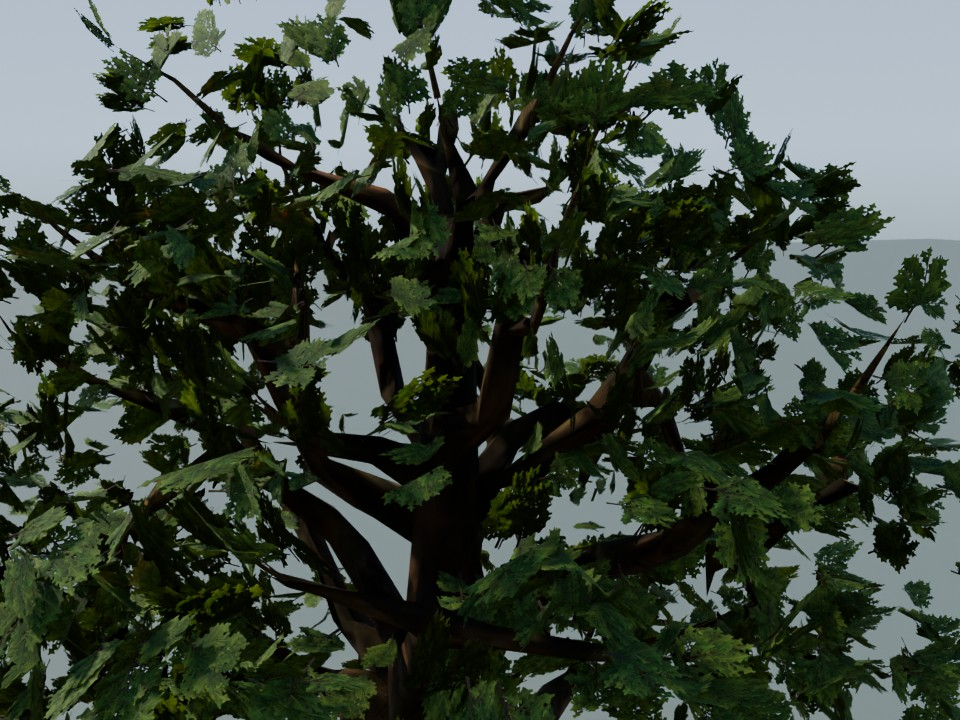
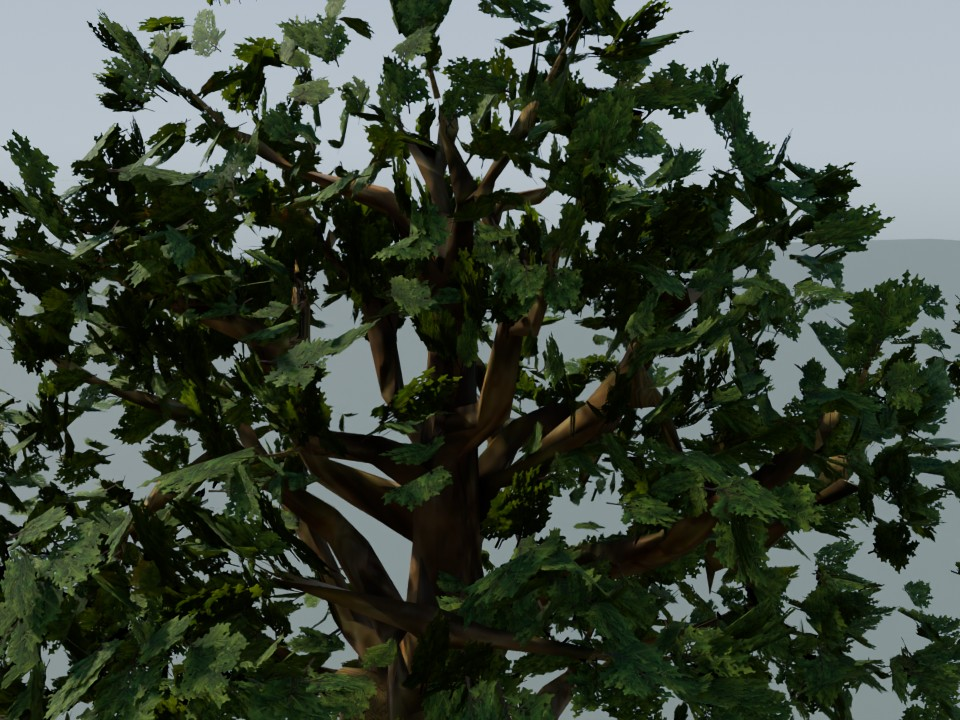
Repair ancient tree wood and roots
The R6 revision addresses the remaining ancient-tree gate failure:
bark albedo now persists as warm textured wood, bare terminals continue
into twig and leaf growth, and the surface roots are rounded volumes
rather than exposed triangular plates.

Generated with [Devin](https://devin.ai)

diff --git a/assets/vegetation/tree_ancient_a/build.py b/assets/vegetation/tree_ancient_a/build.py
@@ -46,16 +46,22 @@ CARD_CONFIG = dict(width_scale=.56, length_scale=.64, cup=.11, twist_deg=46, arc
                    tilt=True, tilt_threshold=.38, tilt_min_deg=21, tilt_max_deg=41,
                    upward_bias=.68, radial_sway=0.0, scale_jitter=.16, seed=GEOMETRY_SEED,
                    scatter_deg=32, scatter_offset=.13)
-BARK_TAPER_CONFIG = dict(max_faces=48, min_faces=32, taper_start=.70, end_radius=.022,
-                         length_scale=.68, bend=.085, seed=GEOMETRY_SEED)
+# Runde 6: deutlich staerkere Verkuerzung (.42 statt .68), frueher einsetzende
+# Verjuengung und mehr Biegung, damit die nackten Speerspitzen als kurze beblaetterte
+# Zweigenden in die Krone eingegliedert werden statt als schwarze Stacheln herauszuragen.
+BARK_TAPER_CONFIG = dict(max_faces=48, min_faces=32, taper_start=.60, end_radius=.022,
+                         length_scale=.42, bend=.12, seed=GEOMETRY_SEED)
 FILL_CONFIG = dict(attach_high=False, fraction=1.0, second_fraction=1.0, third_fraction=.85,
                    width_range=(.66, .92), length_range=(.70, .95),
                    yaw_deg=56, pitch_deg=42, roll_deg=30,
                    normal_offset=.160, tangent_offset=.27,
                    inward_fraction=.34, inward_pull=.60, z_jitter=.26, seed=GEOMETRY_SEED)
+# Runde 6: nahezu runder Querschnitt (oval .92), schmaeler aber deutlich dicker,
+# frueheres und tieferes Abtauchen — die Wurzeln bleiben im sichtbaren Bereich dicke
+# runde Schlaengelwurzeln und verschwinden unter der Erde, bevor sie spitz werden.
 ROOT_CONFIG = dict(count=10, trunk_radius=.68, base_z=.55,
-                   length_range=(1.05, 1.88), radius_range=(.20, .31),
-                   bury_range=(.080, .180), sides=8, rings=7, oval=.52)
+                   length_range=(1.05, 1.88), radius_range=(.15, .22),
+                   bury_range=(.12, .24), sides=10, rings=9, oval=.94)
 BRANCH_COLLARS = (
     dict(angle_deg=15, z=2.35, length=1.25, radius=.33, up=.28, surface_radius=.68),
     dict(angle_deg=120, z=2.55, length=1.30, radius=.34, up=.24, surface_radius=.68),
@@ -1153,17 +1159,51 @@ def _append_surface_roots(bm, centre, *, count, trunk_radius, base_z, length_ran
         p2 = centre + radial * (trunk_radius + length * .48) + tangent * bend + Vector((0, 0, .008 + .022 * h3))
         p3 = centre + radial * (trunk_radius + length) + tangent * bend2 + Vector((0, 0, -bury))
         pts = [_bezier_point(p0, p1, p2, p3, j / max(rings - 1, 1)) for j in range(rings)]
-        ground_t = .64 + .13 * h1
+        # Runde 6c: die wurzel LAUFT AUF dem boden statt in ihm.  der erste wurf liess
+        # die mittellinie flach durch z=0 gleiten — nur eine schmale kalotte lugte ueber
+        # die erde und las als flacher dreiecks-spiess (probe: sichtbare spitzen waren
+        # roehren-scheitel, nicht die template-finnen).  jetzt: mittellinie steigt vom
+        # stamm auf ruhehoehe (radius*.55 — mehr als die haelfte der roehre liegt frei),
+        # laeuft fast eben als runde schlaengelwurzel und STUERZT erst im letzten
+        # viertel steil unter die erde, wobei sie auch dort noch dick ist.
+        descend_t = .40
+        # eintauchen auf mehr ringe verteilt (frueher beginnend), damit der bogen unter
+        # die erde weich rund statt als abgeknicktes bretter-ende liest (draft6)
+        plunge_t = .62 + .06 * h4
+        # radien zuerst — die ruhehoehe haengt vom lokalen radius ab
+        radii = []
+        for j in range(rings):
+            t = j / max(rings - 1, 1)
+            if t < plunge_t:
+                q = t / max(plunge_t, 1e-6)
+                taper = 1.0 - .26 * q
+            else:
+                q = (t - plunge_t) / max(1.0 - plunge_t, 1e-6)
+                taper = .74 * ((1.0 - q) ** .62) + .08
+            rr = .018 + (root_radius - .018) * taper
+            rr *= 1.0 + .10 * math.sin(j * 2.13 + h2 * 5.1) + .05 * math.sin(j * 3.7 + h4 * 3.0)
+            radii.append(max(rr, .012))
         for j, pt in enumerate(pts):
             t = j / max(rings - 1, 1)
-            if t < ground_t:
-                q = t / ground_t
-                pt.z = start_z * ((1.0 - q) ** 1.32)
+            # ruhehoehe bei 85% des radius: die roehre liegt fast voll auf dem boden
+            # auf (nur die flache unterseite versinkt) — bei 55% zeigte sich nur eine
+            # flache kalotte und die wurzel las als brettesque platte (draft5)
+            z_rest = radii[j] * .85 + .012
+            if t < descend_t:
+                q = t / descend_t
+                pt.z = z_rest + (start_z - z_rest) * ((1.0 - q) ** 1.35)
+                # wellen des freiliegenden wurzelkoerpers, am stamm ausklingend
+                pt.z += math.sin(q * math.pi * (1.35 + .55 * h3) + h5 * 4.2) * .030 * math.sin(math.pi * q)
+            elif t < plunge_t:
+                q = (t - descend_t) / max(plunge_t - descend_t, 1e-6)
+                # fast ebenes, leicht welliges aufliegen auf der erde
+                pt.z = z_rest * (1.0 - .25 * q)
+                pt.z += math.sin(t * math.pi * (2.1 + .7 * h3) + h5 * 4.2) * .022 * math.sin(math.pi * q)
             else:
-                q = (t - ground_t) / max(1.0 - ground_t, 1e-6)
-                pt.z = -bury * (q ** .72)
-        radii = [.018 + (root_radius - .018) * ((1.0 - j / max(rings - 1, 1)) ** .78)
-                 for j in range(rings)]
+                q = (t - plunge_t) / max(1.0 - plunge_t, 1e-6)
+                # steiler einsturz: am ende ist die mittellinie tiefer als -radius,
+                # die roehre ist komplett verschwunden, bevor sie duenn wird
+                pt.z = z_rest * .75 - (bury + root_radius * 1.1) * (q ** .72)
         made.extend(_append_curved_tube(bm, pts, radii, sides=sides, seed=seed + 600 + ri * 19,
                                         material_index=0, oval=(1.0, oval), irregular=.065))
     return {"roots": count, "faces": len(made)}
@@ -1207,7 +1247,10 @@ def _smooth_lower_trunk_flare(mesh, *, trunk_radius, seed=0):
     ids=sorted({v for p in mesh.polygons if p.material_index==0 for v in p.vertices})
     for vi in ids:
         co=mesh.vertices[vi].co
-        if not (.025<co.z<1.18): continue
+        # Runde 6: auch die bodennahen finnenkanten (z bis -.02) und etwas hoeher (1.35)
+        # erfassen — in R5 blieben die unteren plattenkanten unveraendert als dreieckige
+        # flossen stehen, weil verts unter z=.025 komplett ausgenommen waren.
+        if not (-.02<co.z<1.35): continue
         dx,dy=co.x-centre.x,co.y-centre.y; r=math.hypot(dx,dy)
         if r<.10: continue
         t=co.z/1.18
@@ -1215,7 +1258,10 @@ def _smooth_lower_trunk_flare(mesh, *, trunk_radius, seed=0):
         a=math.atan2(dy,dx)
         target*=1.0+.030*math.sin(5*a+co.z*2.1+phase)+.018*math.sin(9*a-co.z*3.0)
         if r>target:
-            newr=target+(r-target)*.24
+            # staerkeres einziehen (10% statt 24% restweite): die dreieckigen template-
+            # finnen werden zu vertikalen wurzelrippen am stamm statt flacher platten;
+            # die horizontale wurzelstruktur uebernehmen die separaten rundwurzeln.
+            newr=target+(r-target)*.10
         elif r<target*.76:
             newr=r+(target*.76-r)*.34
         else:
@@ -1224,6 +1270,61 @@ def _smooth_lower_trunk_flare(mesh, *, trunk_radius, seed=0):
         co.x=centre.x+dx*scale; co.y=centre.y+dy*scale; changed+=1
     if changed: mesh.update()
     return {"vertices":changed}
+
+
+def _dive_flare_teeth(mesh, *, trunk_radius, seed=0):
+    """Sink the outer skirt of the collapsed template flare progressively underground.
+
+    The triangular template teeth are vertical webs at the trunk that flatten into
+    horizontal plates exactly where they meet the soil.  Sliding their lower outer
+    vertices below grade turns them into buttress ridges that dive into the ground
+    instead of flat fins lying on it.  Runs before any procedural geometry is appended,
+    so every bark vertex here is original template scaffold; the dive is depth-limited
+    and can never reach the pinned z_min = -0.65 burial socket.
+    """
+    centre = _estimate_trunk_center(mesh)
+    dive_start = trunk_radius * 1.02
+    ids = sorted({v for p in mesh.polygons if p.material_index == 0 for v in p.vertices})
+    changed = 0
+    for vi in ids:
+        co = mesh.vertices[vi].co
+        # enger hoehenkorridor: unter z=.45 existieren nach dem flare-collapse nur
+        # finnen-/schuerzenreste (aeste laufen erst ab z~1+ aus dem stamm); ein erster
+        # wurf mit z<1.0 zog den grossen tiefen seitenast unter die erde (z_min-bruch).
+        if not (-.05 < co.z < .45):
+            continue
+        dx, dy = co.x - centre.x, co.y - centre.y
+        r = math.hypot(dx, dy)
+        # kein oberer radius-schluss mehr: die sichtbaren finnen-spitzen reichen bis
+        # r~1.4 und blieben durch die alte r<1.0-sperre komplett unbehandelt (woodshot
+        # d4).  der harte versenkungs-deckel unten macht den z_min-sockel trotzdem
+        # unerreichbar, und tief liegende schuerzenreste unterhalb z=-.05 sind ohnehin
+        # unsichtbar und duerfen mit eingezogen werden.
+        if r <= dive_start:
+            continue
+        # Runde 6b: die finnen sind flache dreiecks-platten — reines versenken liess
+        # ihre spitzen als scharfe holz-spiesse ueber dem boden (woodshot-base).  jetzt
+        # wird der radiale ueberstand zusaetzlich auf 38% eingezogen: die platte wird
+        # zum niedrigen runden knoechel direkt am stamm, waehrend das abtauchen die
+        # restspitze unter die erde zieht.  die eigentliche wurzelwirkung liegt auf den
+        # separaten rund-roehrenwurzeln.
+        excess = r - dive_start
+        zfade = max(0.0, 1.0 - co.z / .45)
+        # einzug wie versenkung zum fenster oberrand ausblenden — sonst entstuende bei
+        # z=.45 eine sichtbare knickkante um den stamm
+        shrink = 1.0 - .62 * zfade
+        newr = dive_start + excess * shrink
+        scale = newr / r
+        co.x = centre.x + dx * scale
+        co.y = centre.y + dy * scale
+        # staerkstes abtauchen an der bodennahen unterkante, auslaufend ab z=.45;
+        # hart gedeckelt, damit die versenkung niemals den eingegrabenen sockel erreicht
+        sink = min(excess * 1.5 * (.35 + .65 * zfade), .34)
+        co.z -= sink
+        changed += 1
+    if changed:
+        mesh.update()
+    return {"vertices": changed}
 
 
 def _leaf_atlas_rect(h, *, willow=False):
@@ -1323,9 +1424,19 @@ def _append_terminal_growth(bm, cap_data, shoot_data, *, seed=0, willow=False):
             made["leaf_cards"] += len(faces) // 4
 
     for si, data in enumerate(shoot_data or ()):
-        tip = data["base"] + data["axis"] * data["length"]
+        axis = data["axis"]
+        length = data["length"]
         h = _hash01(data["ci"], si, 443)
-        leaf_tuft(tip, data["axis"], seed + 700 + si, 1 + (1 if h > .42 else 0), scale=.88 + .20 * h)
+        tip = data["base"] + axis * length
+        # Runde 6: Laub entlang des ganzen verkuerzten Triebs statt nur an der Spitze —
+        # der einst nackte schwarze Speer liest sich als durchgehend beblaettertes
+        # Zweigende; die Karten werden nach innen kleiner und guenstiger.
+        leaf_tuft(tip, axis, seed + 700 + si, 2 + (1 if h > .55 else 0), scale=.95 + .18 * h)
+        if length > .30:
+            mid = data["base"] + axis * (length * (.56 + .10 * h))
+            leaf_tuft(mid, axis, seed + 720 + si, 1 + (1 if h > .42 else 0), scale=.68 + .14 * h)
+            inner = data["base"] + axis * (length * (.24 + .08 * h))
+            leaf_tuft(inner, axis, seed + 740 + si, 1, scale=.50 + .14 * h)
         made["terminal_shoots"] += 1
 
     for ci, data in enumerate(cap_data or ()):
@@ -1369,6 +1480,19 @@ def _append_terminal_growth(bm, cap_data, shoot_data, *, seed=0, willow=False):
             made["twigs"] += 1
             leaf_tuft(pts[-1], direction, seed + 1000 + ci * 17 + k, 2 if h2 > .30 else 1,
                       scale=.92 + .18 * h3)
+        # Runde 6: zusaetzliche blattpolster entlang des nackten endasts hinter der
+        # spitze — der lange dunkle speer des geruests liest sich so als beblaettertes
+        # zweigende. kleinere, guenstigere karten weiter innen; leicht seitlich versetzt,
+        # damit sie nicht exakt auf der astachse schwimmen.
+        shaft_len = max(.55, min(1.15, radius * 4.2))
+        for frac, sc, cnt in ((.30, .74, 2), (.62, .60, 1), (.88, .48, 1)):
+            h5 = _hash01(data["ci"], int(frac * 100), 471, seed)
+            h6 = _hash01(data["ci"], int(frac * 100), 479, seed)
+            back = tip - axis * (shaft_len * frac)
+            lateral_off = (e1 * (h5 - .5) + e2 * (h6 - .5)) * max(radius * 1.1, .06)
+            pos = back + lateral_off + zup * ((h5 - .35) * .05)
+            leaf_tuft(pos, axis, seed + 1100 + ci * 13 + int(frac * 100),
+                      cnt + (1 if h6 > .62 else 0), scale=sc + .10 * h5)
     return made
 
 
@@ -1807,6 +1931,56 @@ def _shrink_fern_crown(mesh, *, z0=.018, height_scale=.24, radial_pull=.68):
     return {"vertices": changed}
 
 
+def _gnarly_bark_relief(mesh, *, seed=0):
+    """Break the smooth-plastic cylinder read of the thick scaffold limbs with continuous
+    multi-frequency surface noise displaced along the smooth bark normals.
+
+    The displacement field is continuous in 3D space, so no seam can open and the UVs stay
+    valid.  Amplitude is scaled per connected-component class: thick scaffold limbs gain
+    visible gnarl, medium roots/collars get soft undulation, thin twigs only wobble so
+    their cross-sections are never crumpled.  Runs after all bark construction and before
+    the smooth-normal pass so the relief is shaded correctly.
+    """
+    comps = _material_components(mesh, 0)
+    acc = [Vector((0, 0, 0)) for _ in mesh.vertices]
+    for p in mesh.polygons:
+        if p.material_index != 0:
+            continue
+        n = p.normal * p.area
+        for v in p.vertices:
+            acc[v] += n
+    ph1 = _hash01(seed, 601) * 2.0 * math.pi
+    ph2 = _hash01(seed, 607) * 2.0 * math.pi
+    changed = 0
+    for comp in comps:
+        npolys = len(comp["polys"])
+        if npolys > 500:
+            amp_low, amp_mid = .030, .012
+        elif npolys >= 45:
+            amp_low, amp_mid = .016, .006
+        else:
+            amp_low, amp_mid = .007, .0
+        for vi in comp["verts"]:
+            co = mesh.vertices[vi].co
+            # z < -0.3 is the pinned burial socket: leave it untouched.
+            if co.z < -.30:
+                continue
+            n = acc[vi]
+            if n.length < 1e-6:
+                continue
+            n = n.normalized()
+            low = (math.sin(co.x * 5.1 + ph1) * math.sin(co.y * 4.63 + ph1 * 1.7)
+                   * math.sin(co.z * 5.37 + ph1 * 2.3))
+            mid = (math.sin(co.x * 15.3 + ph2 + co.z * 5.9) * math.sin(co.y * 14.1 + ph2 * 1.31 - co.z * 4.7)
+                   * math.sin(co.z * 16.7 + ph2 * 2.07))
+            d = amp_low * low + amp_mid * mid
+            mesh.vertices[vi].co = Vector((co.x + n.x * d, co.y + n.y * d, co.z + n.z * d))
+            changed += 1
+    if changed:
+        mesh.update()
+    return {"vertices": changed}
+
+
 def _smooth_bark_normals(mesh):
     """Use area-weighted smooth split normals on wood while leaving foliage loops untouched."""
     old = [x.vector.copy() for x in mesh.corner_normals]
@@ -1849,6 +2023,41 @@ def _lift_foliage_albedo(mat, *, gamma, floor):
         out = np.concatenate([rgb, px[..., 3:]], -1)
         img.pixels.foreach_set(out.astype(np.float32).ravel())
         lifted.append(img.name)
+    return lifted
+
+
+def _lift_bark_albedo(mat, *, boost, floor, suffix):
+    """Multiplicative linear-space bark lift plus a small additive floor.
+
+    A constant gain preserves every contrast ratio of the authored bark texture, so the
+    grain reads clearer rather than flatter — unlike another gamma pass, which compresses
+    exactly the shadow contrast the reviewer asked to keep.  The floor only keeps true
+    black crevices off zero in deep shade.
+
+    The result must be baked into a NEW packed image via vrmeshy._replace_image: editing
+    ``img.pixels`` of an already packed image in place never reaches the saved .blend,
+    because the file keeps the original packed PNG bytes.
+    """
+    lifted = []
+    made = {}
+    for node in _basecolor_texture_nodes(mat):
+        img = node.image
+        if img in made:
+            continue
+        px = vrmeshy._image_pixels(img)
+        # Runde 6: weiche saettigungskurve statt reinem linear-gain — der erste wurf
+        # (v*boost+floor, hart geclippt) trieb die hellen flechten-/lichtstellen der
+        # rinde in reines weiss, der stamm las bleich.  1-exp(-v) behaelt den gain in
+        # den schatten (kontrastverhaeltnisse annaehernd proportional), komprimiert
+        # aber lichter weich gegen weiss statt sie abzuschneiden.
+        v = px[..., :3] * boost + floor
+        rgb = 1.0 - np.exp(-v)
+        out = np.concatenate([rgb, px[..., 3:]], -1)
+        made[img] = vrmeshy._replace_image(img, out, suffix)
+        lifted.append(made[img].name)
+    for node in mat.node_tree.nodes:
+        if node.type == "TEX_IMAGE" and node.image in made:
+            node.image = made[node.image]
     return lifted
 
 
@@ -1895,11 +2104,13 @@ def _apply_asset_geometry(obj):
         willow_ragged = _raggedize_willow_cards(mesh, seed=GEOMETRY_SEED)
     tips = _taper_small_bark_tips(mesh, **BARK_TAPER_CONFIG)
     lower_flare = _smooth_lower_trunk_flare(mesh, trunk_radius=ROOT_CONFIG.get("trunk_radius", .5), seed=GEOMETRY_SEED)
+    teeth_dive = _dive_flare_teeth(mesh, trunk_radius=ROOT_CONFIG.get("trunk_radius", .5), seed=GEOMETRY_SEED)
     fluting = _flute_trunk_bark(mesh, trunk_radius=ROOT_CONFIG.get("trunk_radius", .5),
                                 height=3.4, seed=GEOMETRY_SEED)
     bark_geometry = _add_procedural_bark_geometry(
         mesh, seed=GEOMETRY_SEED, root=ROOT_CONFIG, collars=BRANCH_COLLARS,
         shoot_collars=SHOOT_COLLAR_CONFIG, tip_caps=TIP_CAP_CONFIG)
+    gnarl = _gnarly_bark_relief(mesh, seed=GEOMETRY_SEED)
     bark_normals = _smooth_bark_normals(mesh)
     normals = 0
     if ASSET_KIND == "tree":
@@ -1910,8 +2121,9 @@ def _apply_asset_geometry(obj):
     elif ASSET_KIND == "bush":
         normals = _recalc_foliage_normals(mesh, geom_weight=.66, up_weight=.50, radial_weight=.56)
     return {"cards": cards, "card_split": split, "cluster_fill": fill,
-            "willow_ragged": willow_ragged, "tapered_tips": tips, "lower_trunk_flare": lower_flare, "trunk_fluting": fluting,
-            "procedural_bark": bark_geometry, "bark_normals": bark_normals,
+            "willow_ragged": willow_ragged, "tapered_tips": tips, "lower_trunk_flare": lower_flare,
+            "flare_teeth_dive": teeth_dive, "trunk_fluting": fluting,
+            "procedural_bark": bark_geometry, "gnarl_relief": gnarl, "bark_normals": bark_normals,
             "foliage_normals": normals}
 
 
@@ -1981,7 +2193,9 @@ def _configure_materials(obj, template_info):
     lifted = _lift_foliage_albedo(foliage, gamma=FOLIAGE_GAMMA, floor=FOLIAGE_LIFT_FLOOR)
     if lifted:
         graded["foliage_lifted"] = lifted
-    bark_lifted = _lift_foliage_albedo(bark, gamma=.74, floor=.032)
+    # Runde 6: kontrasttreue multiplikative Aufhellung der Rinde statt Gamma — die
+    # Rindentextur bleibt im Schatten lesbar, ohne dass die Binnenkonstraste flach werden.
+    bark_lifted = _lift_bark_albedo(bark, boost=2.0, floor=.012, suffix="_vr_r6lift")
     if bark_lifted:
         graded["bark_lifted"] = bark_lifted
     _wire_foliage_translucency(foliage, FOLIAGE_TRANSLUCENCY)

diff --git a/docs/grafik/STATE.md b/docs/grafik/STATE.md
@@ -6,7 +6,7 @@ Diese Datei reicht, damit eine neue Session nahtlos weitermacht. Nach jedem Arbe
 
 - Zweig: `grafik/next-level` — aktueller Head siehe `git log`; zuletzt dokumentierte Kette: f7bb548 Gras-Fix → 8e86404 Felsen platziert → a413710 Gras-Farbtuning → 8045b61 Cleanup → grass_tuft-Altbestand entfernt
 - Phase: **Phase 2 fast abgeschlossen** — Bench p2-r16 bestanden. **Phase 4.1 GPU-Gras RENDERT + Farbtuning ABGESCHLOSSEN** (saftiges Wiesengrün, siehe unten — Doppeltint/sRGB/normalNode-Fallen). Parallel: 3 Felsen approved+werden exportiert/platziert, 6 Fantasy-Bäume in Revision nach Gate-Review.
-- Session-Stand (fortlaufend): VEGETATION-R5-REVIEW: oak/beech/willow/fern APPROVED (oak/willow/fern knapp), ancient weiterhin rejected wegen nahezu schwarzer plastischer Hauptäste, restlicher Speerenden und harter dreieckiger Wurzelplatten. Vier Exportkandidaten vorhanden; ancient braucht gezielte R6. Ground-Bench nach Upload+Readiness: CPU 9.61→7.74 ms, 1%-Low 19.16→21.44, flight weiterhin perfekt; Ground-Spikes bleiben (max 66.9 ms, 4.167M Tris) und sind noch nicht gelöst. VEGETATION-R5 implementiert: separate horizontale Oberflächenwurzeln statt Kragen/Topfrand, verjüngte/begrünte Astenden, Willow-Vorhänge zerschlissen und Farn als 44 überlappende gebogene Wedel ohne schwarzen Kern/Spike-Rootlets. Finale Sheets gerendert, py_compile + vr.py check grün; alle fünf warten als `blender_review` auf ein neues unabhängiges Review. Metriken weiterhin im Korridor (Mediane .549–.689), Dreiecke 1852–14228. PERF-UPLOADFIX implementiert: Die falschen `DynamicDrawUsage`-Flags wurden aus GPU-Gras und Instanz-Assets entfernt; Asset-Matrix/Tint-Uploads nutzen jetzt Präfix-`updateRanges`. Grund: three.js WebGPU lädt Dynamic-Attribute auch ohne `needsUpdate` jeden Frame erneut voll hoch (G3-Gras theoretisch mehrere MB/frame); Tests 98/98 + tsc grün. Bench-Verifikation muss warten, bis die R5-Blenderjobs fertig sind. VEGETATION-R4 bewertet: Die korrigierte Kartenmetrik wurde erreicht (Mediane oak .652, beech .690, ancient .649, willow .622, fern .438; bushes Referenz .632), aber das unabhängige Gate-Review hat **alle fünf** Assets rejected. Kartengröße ist nicht mehr der Hauptblocker; jetzt blockieren vertikale plissierte Wurzelkragen/harte Topfränder, glatte schwarze/plastische Ast- und Speerenden, abgeschnittene/bulböse Kappen (besonders willow/beech/ancient) sowie beim Farn schwarzer Kern, stachelige braune Rootlets und angular-bändige Blattspitzen. Reviews formal als Runde 4 recorded; alle fünf sind wieder `modeling`. Nächste Runde muss horizontale einzelne Oberflächenwurzeln, kontinuierlich verjüngte/begrünte Astenden und einen komplett neuen Farnzentrumsaufbau liefern. MESHY-REWORK umgesetzt: Alle sechs Gate-Fails (`log_fallen_a`, `stump_roots_a`, `trunk_acacia_b`, `trunk_baobab_a`, `rock_slab_a`, `monument_split_disc_a`) wurden aus verschärften v2-Referenzen neu generiert, heruntergeladen, roh QA-geprüft und mit entrümpelten Build-Pipelines erfolgreich smoke-gebaut. Exakt 159 Credits verbraucht; Budget jetzt `rework 159/320`, `total 528/2000`, Meshy-Konto 2632. Formale Review-Sheets/Approval/Export stehen noch aus. PERF-QUICKWIN implementiert: GPU-Gras nutzt jetzt Kamerahöhe + exakte Terrainmaxima (`TerrainStream.maxHeightInRect`) für sichere 3D-Sichtbarkeitskriterien. Im hohen Flug werden garantiert unsichtbare Graszellen nicht mehr gebaut/hochgeladen; bereits gebaute Zellen werden auf count=0 statt nutzlos weiterzurendern. Bodenverhalten bleibt unverändert, bei hohem Relief bleibt die Abschaltung konservativ. Unit-Verifikation 98/98 + tsc grün. Bench `grass-flight-culling` valid: flight jetzt 59.94/59.22 FPS, max 17.0 ms, 0 Frames >25 ms (vorher 58.32/18.87, max 200.1 ms, 9 Frames >50 ms) bei praktisch unveränderten Dreiecken/Draws — der Flugspike ist damit eindeutig behoben. Ground bleibt separat verletzt (57.64/19.16, max 66.8 ms, 17 Frames >50 ms; Dreieckswarnung 4.168M). EXPORT-PAKET: `bush_lush_a` und `boulder_chalk_c` sind exportiert und klein testplatziert. Bush GLB 4.82 MB, LODs 1687/505/247/87, UASTC foliage albedo/normal + ETC1S ORM; Boulder GLB 1.41 MB, LODs 28101/5999/1599. Placements 1243 Einträge/16.019 expandierte Instanzen (+3 boulder_chalk_c bei G7, +15 bush_lush_a in zwei Hainclustern); Tests 96/96, tsc und npm run build grün. Browser-Sichtung/Bench noch offen, weil parallel R4/Meshy läuft. GRASS-INTEGRATION: `grass_tuft_a` vollständig aus den Placements entfernt (13 Scatter, exakt 64.120 expandierte Instanzen; Placement-Einträge 1251→1238, deklarierte Instanzsumme 16.001). Sichtprüfung G1/G3/G4/G6: keine Baldness/Lücken, Weg frei. Bench `tuft-entfernt` valid, aber Budget weiterhin verletzt: ground 57.99/21.77 FPS, max 66.9 ms, Dreiecke max 4.168.620; flight 58.32/18.87, max 200.1 ms. Gegenüber `p41-opt-clean` nur leichte Verbesserung (1%-lows +1.2/+1.9 FPS, Frames >50 ms ground 12→10/flight 18→9, Textur -1.33 MiB); Dreieckspeak praktisch unverändert — der Altbestand war nicht der Haupt-Dreieckstreiber. Nächste Perf-Ursache separat analysieren. GATE-REV-E: **boulder_chalk_c APPROVED**. 6 Assets brauchen Meshy-Regenerierung statt Texture-Patches (log/stump/acacia_b/baobab/slab/monument) — Budget prüfen vorher. Approved-neu gesamt: bush_lush_a + boulder_chalk_c warten auf Export. ALTSTAND: GATE-R3: **bush_lush_a APPROVED** (erste Vegetation durchs Tor!), Bäume weiter rejected, oak knapp. SCHLÜSSELMETRIK vom Mesh-Scan: Karten-Komponenten 1.2-1.6m = sichtbare Regale, bush 0.63m = dicht. Nächste Runde: Karten unter ~0.7m verkleinern/staffeln + TIP_CAP_CONFIG für oak/beech/ancient aktivieren. ALTSTAND: R3-Rebuild committed (geometrisch: Tochterkarten/Flares/Kragen/Kappen), Gate-Review-R3 läuft (ec7c0cd7). Gras-Perf committed 314499f (95/95 Tests, Dreiecke 382k statt 697k an G3) — sauberer Bench p41-opt-clean sobald Blender frei. Meshy-Reparatur läuft noch. ALTSTAND: Gate-Re-Review Runde 2 = **0/6 approved** (geometrische Kernmängel bleiben). Laufende Subagenten: Vegetation-Tiefen-Rebuild R3 (bush→fern→oak), Gras-Perf-Optimierung (Build-Hitches/Dreiecke), Meshy-Reparatur 7 Assets. Gras-Perf-Daten: 1%low 21.9 statt ≥45, Dreiecke 4.6M>4M; grass_tuft-Doppelbestand (64k Instanzen parallel zum GPU-Gras) ist der große Hebel. Capture p2-r16 erst nach Stabilisierung.
+- Session-Stand (fortlaufend): VEGETATION-R5-REVIEW: oak/beech/willow/fern APPROVED (oak/willow/fern knapp), ancient weiterhin rejected wegen nahezu schwarzer plastischer Hauptäste, restlicher Speerenden und harter dreieckiger Wurzelplatten. Vier Exportkandidaten vorhanden; ancient R6 implementiert: warme strukturierte Rinde statt Schwarzplastik, Speerenden mit Zweig+Laub integriert, getrennte Wurzeln volumetrisch gerundet; finale Sheets/grüner Check, unabhängiges Review läuft. Ground-Bench nach Upload+Readiness: CPU 9.61→7.74 ms, 1%-Low 19.16→21.44, flight weiterhin perfekt; Ground-Spikes bleiben (max 66.9 ms, 4.167M Tris) und sind noch nicht gelöst. VEGETATION-R5 implementiert: separate horizontale Oberflächenwurzeln statt Kragen/Topfrand, verjüngte/begrünte Astenden, Willow-Vorhänge zerschlissen und Farn als 44 überlappende gebogene Wedel ohne schwarzen Kern/Spike-Rootlets. Finale Sheets gerendert, py_compile + vr.py check grün; alle fünf warten als `blender_review` auf ein neues unabhängiges Review. Metriken weiterhin im Korridor (Mediane .549–.689), Dreiecke 1852–14228. PERF-UPLOADFIX implementiert: Die falschen `DynamicDrawUsage`-Flags wurden aus GPU-Gras und Instanz-Assets entfernt; Asset-Matrix/Tint-Uploads nutzen jetzt Präfix-`updateRanges`. Grund: three.js WebGPU lädt Dynamic-Attribute auch ohne `needsUpdate` jeden Frame erneut voll hoch (G3-Gras theoretisch mehrere MB/frame); Tests 98/98 + tsc grün. Bench-Verifikation muss warten, bis die R5-Blenderjobs fertig sind. VEGETATION-R4 bewertet: Die korrigierte Kartenmetrik wurde erreicht (Mediane oak .652, beech .690, ancient .649, willow .622, fern .438; bushes Referenz .632), aber das unabhängige Gate-Review hat **alle fünf** Assets rejected. Kartengröße ist nicht mehr der Hauptblocker; jetzt blockieren vertikale plissierte Wurzelkragen/harte Topfränder, glatte schwarze/plastische Ast- und Speerenden, abgeschnittene/bulböse Kappen (besonders willow/beech/ancient) sowie beim Farn schwarzer Kern, stachelige braune Rootlets und angular-bändige Blattspitzen. Reviews formal als Runde 4 recorded; alle fünf sind wieder `modeling`. Nächste Runde muss horizontale einzelne Oberflächenwurzeln, kontinuierlich verjüngte/begrünte Astenden und einen komplett neuen Farnzentrumsaufbau liefern. MESHY-REWORK umgesetzt: Alle sechs Gate-Fails (`log_fallen_a`, `stump_roots_a`, `trunk_acacia_b`, `trunk_baobab_a`, `rock_slab_a`, `monument_split_disc_a`) wurden aus verschärften v2-Referenzen neu generiert, heruntergeladen, roh QA-geprüft und mit entrümpelten Build-Pipelines erfolgreich smoke-gebaut. Exakt 159 Credits verbraucht; Budget jetzt `rework 159/320`, `total 528/2000`, Meshy-Konto 2632. Formale Review-Sheets/Approval/Export stehen noch aus. PERF-QUICKWIN implementiert: GPU-Gras nutzt jetzt Kamerahöhe + exakte Terrainmaxima (`TerrainStream.maxHeightInRect`) für sichere 3D-Sichtbarkeitskriterien. Im hohen Flug werden garantiert unsichtbare Graszellen nicht mehr gebaut/hochgeladen; bereits gebaute Zellen werden auf count=0 statt nutzlos weiterzurendern. Bodenverhalten bleibt unverändert, bei hohem Relief bleibt die Abschaltung konservativ. Unit-Verifikation 98/98 + tsc grün. Bench `grass-flight-culling` valid: flight jetzt 59.94/59.22 FPS, max 17.0 ms, 0 Frames >25 ms (vorher 58.32/18.87, max 200.1 ms, 9 Frames >50 ms) bei praktisch unveränderten Dreiecken/Draws — der Flugspike ist damit eindeutig behoben. Ground bleibt separat verletzt (57.64/19.16, max 66.8 ms, 17 Frames >50 ms; Dreieckswarnung 4.168M). EXPORT-PAKET: `bush_lush_a` und `boulder_chalk_c` sind exportiert und klein testplatziert. Bush GLB 4.82 MB, LODs 1687/505/247/87, UASTC foliage albedo/normal + ETC1S ORM; Boulder GLB 1.41 MB, LODs 28101/5999/1599. Placements 1243 Einträge/16.019 expandierte Instanzen (+3 boulder_chalk_c bei G7, +15 bush_lush_a in zwei Hainclustern); Tests 96/96, tsc und npm run build grün. Browser-Sichtung/Bench noch offen, weil parallel R4/Meshy läuft. GRASS-INTEGRATION: `grass_tuft_a` vollständig aus den Placements entfernt (13 Scatter, exakt 64.120 expandierte Instanzen; Placement-Einträge 1251→1238, deklarierte Instanzsumme 16.001). Sichtprüfung G1/G3/G4/G6: keine Baldness/Lücken, Weg frei. Bench `tuft-entfernt` valid, aber Budget weiterhin verletzt: ground 57.99/21.77 FPS, max 66.9 ms, Dreiecke max 4.168.620; flight 58.32/18.87, max 200.1 ms. Gegenüber `p41-opt-clean` nur leichte Verbesserung (1%-lows +1.2/+1.9 FPS, Frames >50 ms ground 12→10/flight 18→9, Textur -1.33 MiB); Dreieckspeak praktisch unverändert — der Altbestand war nicht der Haupt-Dreieckstreiber. Nächste Perf-Ursache separat analysieren. GATE-REV-E: **boulder_chalk_c APPROVED**. 6 Assets brauchen Meshy-Regenerierung statt Texture-Patches (log/stump/acacia_b/baobab/slab/monument) — Budget prüfen vorher. Approved-neu gesamt: bush_lush_a + boulder_chalk_c warten auf Export. ALTSTAND: GATE-R3: **bush_lush_a APPROVED** (erste Vegetation durchs Tor!), Bäume weiter rejected, oak knapp. SCHLÜSSELMETRIK vom Mesh-Scan: Karten-Komponenten 1.2-1.6m = sichtbare Regale, bush 0.63m = dicht. Nächste Runde: Karten unter ~0.7m verkleinern/staffeln + TIP_CAP_CONFIG für oak/beech/ancient aktivieren. ALTSTAND: R3-Rebuild committed (geometrisch: Tochterkarten/Flares/Kragen/Kappen), Gate-Review-R3 läuft (ec7c0cd7). Gras-Perf committed 314499f (95/95 Tests, Dreiecke 382k statt 697k an G3) — sauberer Bench p41-opt-clean sobald Blender frei. Meshy-Reparatur läuft noch. ALTSTAND: Gate-Re-Review Runde 2 = **0/6 approved** (geometrische Kernmängel bleiben). Laufende Subagenten: Vegetation-Tiefen-Rebuild R3 (bush→fern→oak), Gras-Perf-Optimierung (Build-Hitches/Dreiecke), Meshy-Reparatur 7 Assets. Gras-Perf-Daten: 1%low 21.9 statt ≥45, Dreiecke 4.6M>4M; grass_tuft-Doppelbestand (64k Instanzen parallel zum GPU-Gras) ist der große Hebel. Capture p2-r16 erst nach Stabilisierung.
 - Verifikation: **98/98 Explorer-Tests grün**, `tsc --noEmit` sauber, `vr.py check` grün (34 Assets).
 - Bench p2-r16 (sauberer Lauf, unbeladene Maschine): ground 59,79 FPS mean / 47,71 1%-low, flight 59,94 / 59,48, 0 Budget-Verletzungen, max 245 Draws, 896 MiB Textur. Der ursprüngliche r16-Fail (29er 1%-lows) war Load-Rauschen paralleler Blender-Jobs.
 - Meshy-Kostenbuch: **369 / 2000 Credits** verbraucht (Antigravity +228 für 10 Klasse-B-Modelle, 2 Bilder, 2 Klasse-A-Multiview), Kontostand 2791. Stopp bei 1800.
